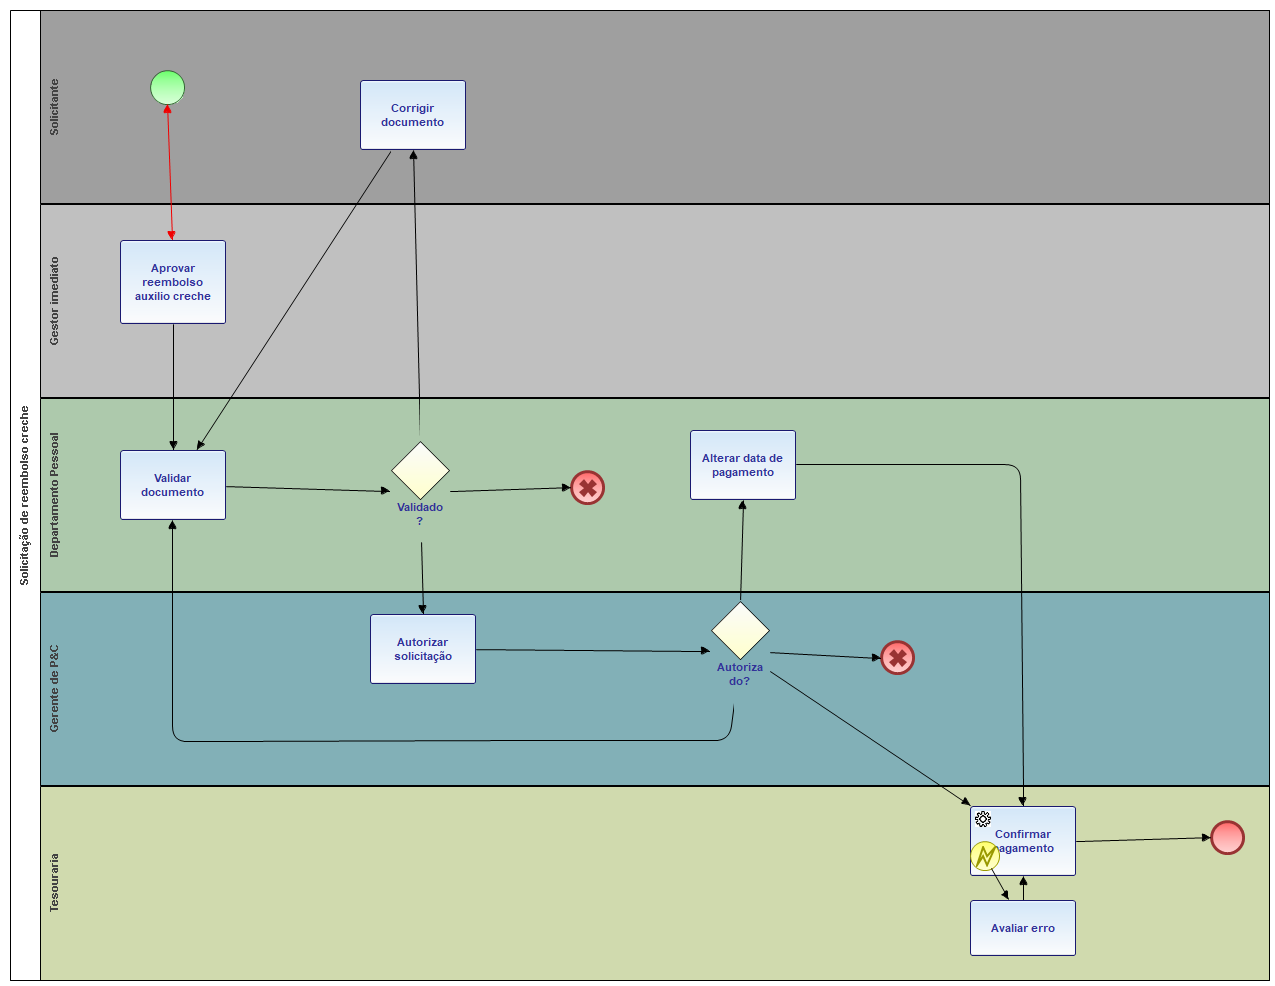
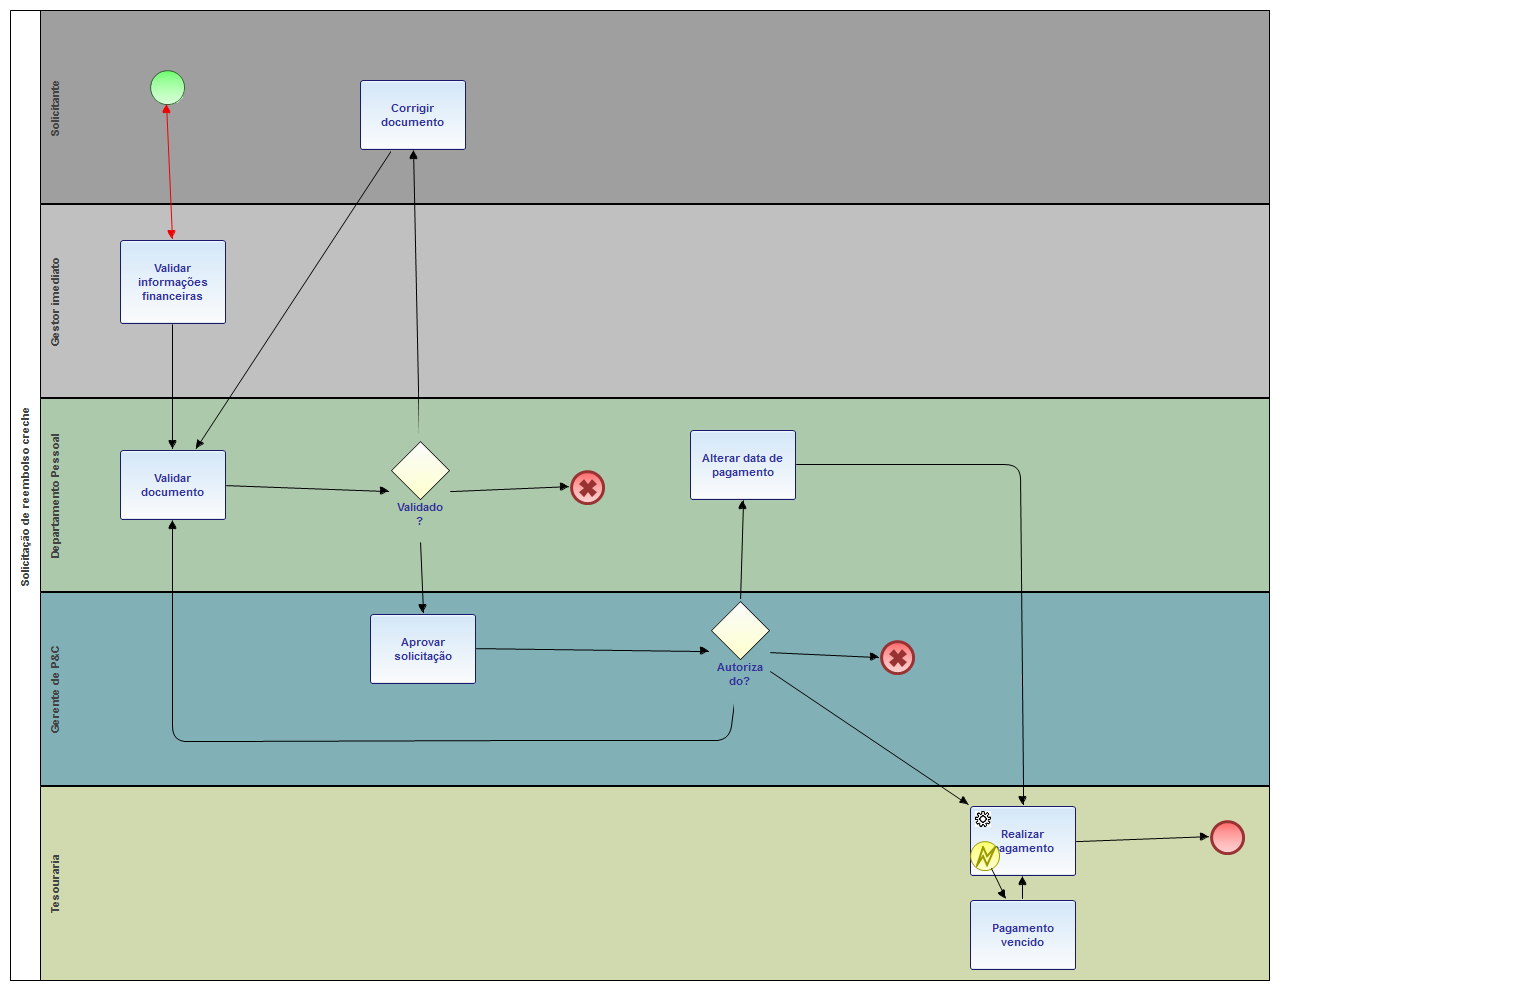
Ajustes no processo de reembolso creche para buscar data do pagamento

diff --git a/Fluig VMB Teste/datasets/Validados/VM_Pagamentos.js b/Fluig VMB Teste/datasets/Validados/VM_Pagamentos.js
@@ -5,7 +5,7 @@ function createDataset(fields, constraints, sortFields) {
 	    dataset.addColumn("DATA_PAGAMENTO");
 	    
 	    var dados;
-	    //var solicitacao ='1683';
+	   // var solicitacao ='1678';
 	   
 	    //constraints[0].fieldName == "documentid"
 	    
@@ -15,11 +15,14 @@ function createDataset(fields, constraints, sortFields) {
 	    		var c1 = DatasetFactory.createConstraint("metadata#active", true, true, ConstraintType.MUST);        		
 	    		var solicitacao = DatasetFactory.getDataset("VM_SolicitacoesReembolsoAuxilioCreche1", null, new Array(c0,c1), null);
 	    		
+	    		log.info("VM PAGAMENTOS");
+	    		log.dir(solicitacao);
+	    		
 	    		var retornaProcessoSolicitacao = retornaSolicitacao(solicitacao.getValue(0,"metadata#card_index_id"),solicitacao.getValue(0,"documentid"),solicitacao.getValue(0,"companyid"));
         		var codSolicitacao = retornaProcessoSolicitacao.getValue(0,"workflowProcessPK.processInstanceId");
         	
 	        		        	
-	        	var webservice = '/PAGAMENTOS?CODIGO='+codSolicitacao;	        	
+	        	var webservice = '/PAGAMENTOS/'+codSolicitacao;	        	
 	        	
 	        	 try {
 	            	 var clientService = fluigAPI.getAuthorizeClientService();
@@ -32,32 +35,24 @@ function createDataset(fields, constraints, sortFields) {
 	         	            timeoutService: '100' // segundos	            	  
 	         	        }
 	            
-	            var vo = clientService.invoke(JSON.stringify(data));
-	            
-	         	        if(vo.getResult()== null || vo.getResult().isEmpty()){
-	         	        	//realiza tentativa de conexão com link secundario
-	         	            var data = {
-	         	    	            companyId : getValue("WKCompany") + '',
-	         	    	            serviceCode : 'REST FLUIG 2',
-	         	    	            endpoint :  webservice,
-	         	    	            method : 'get',// 'delete', 'patch', 'put', 'get'     
-	         	    	            timeoutService: '100' // segundos	            	  
-	         	    	        }   	
-	         	            vo = clientService.invoke(JSON.stringify(data));
-	         	            
-	         	        }
-	         	        else if (vo.getResult()== null || vo.getResult().isEmpty()){
-	         	        
-	         	        	throw new Exception("Retorno está vazio");
-	         	        }
-	            
-	            else{    
-	                dados = vo.getResult();
-	            }
-	            
-	            } catch(err) {
-	            	throw new Exception(err);
-	            }
+	         	       var vo = clientService.invoke(JSON.stringify(data));
+				        
+				        if(vo.getResult()== null || vo.getResult().isEmpty()){
+				            //throw "Retorno está vazio";
+				        	log.info("RETORNO ESTA VAZIO");
+				        	dataset.addRow(new Array("RETORNO VAZIO"));
+				        }
+			   
+				        else{
+				        	//log.info(vo.getResult());        
+				        	dados = vo.getResult();
+				        	}
+				    } 
+					catch(err) {
+				        //throw err;
+						//log.info(err);
+						dataset.addRow([err.message]);
+				    }
 	        	 
 	        	 
 	        }
@@ -88,4 +83,16 @@ function createDataset(fields, constraints, sortFields) {
 	 	}
 	 	
 	 	return null;
+	 }
+	 
+	//recebe como parametro:metadata#card_index_id, metadate#id, companyid
+	 function retornaSolicitacao(cardindexdocumentid,carddocumentid,empresa){
+	 	  var constraintsHistorico  = new Array();	    	 
+	 		 constraintsHistorico.push(DatasetFactory.createConstraint("cardIndexDocumentId", cardindexdocumentid , cardindexdocumentid, ConstraintType.MUST));
+	 		 constraintsHistorico.push(DatasetFactory.createConstraint("cardDocumentId", carddocumentid , carddocumentid, ConstraintType.MUST));	    	
+	 		 constraintsHistorico.push(DatasetFactory.createConstraint("workflowProcessPK.companyId", empresa , empresa, ConstraintType.MUST));	    	
+	 		 
+	    var historicoFormulario = DatasetFactory.getDataset("workflowProcess", null, constraintsHistorico, null);	       		 
+
+	    return historicoFormulario;
 	 }

diff --git a/Fluig VMB Teste/forms/1509 - SolicitacaodeReembolsoAuxilioCreche/SolicitacaoReembolsoAuxilioCreche.html b/Fluig VMB Teste/forms/1509 - SolicitacaodeReembolsoAuxilioCreche/SolicitacaoReembolsoAuxilioCreche.html
@@ -376,7 +376,7 @@
                                           <input type="email" class="form-control" id="emailAssistente" name="emailAssistente" readonly>
                                        </div>
                                        <div class="form-group col-md-3">
-                                          <label for="dtPagamento">Data para pagamento</label>
+                                          <label for="dtPagamento">Data prevista de pagamento</label>
                                           <div class="input-group date">
                                              <input type="text" class="form-control" placeholder="Data de pagamento" id="dtPagamento" name="dtPagamento">
                                              <span class="input-group-addon">
@@ -397,14 +397,14 @@
                                        </div>
                                        <div class="form-group col-md-4">
                                           <Label for ="invalido">Documento não aceito</Label>					
-                                          <input type="radio" id ="negado" name="validacao" value ="invalido" onclick="justificativaValidacao()"/>
+                                          <input type="radio" id ="invalido" name="validacao" value ="invalido" onclick="justificativaValidacao()"/>
                                        </div>
                                     </div>
                                     <div class="row">
                                        <div class="form-group col-md-12">
                                           <div class="form-group" >
                                              <label for="justificativaReprovacaoV">Justificativa</label>
-                                             <textarea class="form-control" rows="3" id="justificativaReprovacaoV" name="justificativaReprovacaoV" placeholder="Por favor, informar o motivo pela reprovação."></textarea>
+                                             <textarea class="form-control" rows="3" id="justificativaReprovacaoV" name="justificativaReprovacaoV" placeholder="Por favor, informar o motivo pela reprovação ou devolução"></textarea>
                                           </div>
                                        </div>
                                     </div>
@@ -446,13 +446,15 @@
                                  </div>
                                  <div class="tab-pane" id="5b">
                                  	 <div class="row">
-                                 	 	<Label>Data de pagamento</Label>
-                                 	 	 <div class="input-group date">
-                                             <input type="text" class="form-control" id="dtBaixa" name="dtBaixa"  readonly>
-                                             <span class="input-group-addon">
-                                             <span class="fluigicon fluigicon-calendar"></span>
-                                             </span>
+                                 	 	<div class="form-group col-md-3">
+											<Label>Data efetiva de pagamento</Label>                                 	 	
+                                 	 		<div class="input-group date">
+                                            	 <input type="text" class="form-control" id="dtBaixa" name="dtBaixa"  readonly>
+                                             	<span class="input-group-addon">
+                                             	<span class="fluigicon fluigicon-calendar"></span>
+                                             	</span>
                                           </div>
+                                 	 	</div>                                 	 	                                 	 	 
                                  	 </div>
                                  </div>
                               </div>

diff --git a/Fluig VMB Teste/datasets/Validados/VM_FINA050_SOLICITACAO_REEMBOLSO_AUXILIO_CRECHE.js b/Fluig VMB Teste/datasets/Validados/VM_FINA050_SOLICITACAO_REEMBOLSO_AUXILIO_CRECHE.js
@@ -21,9 +21,11 @@ function createDataset(fields, constraints, sortFields) {
 	    		var c2 = DatasetFactory.createConstraint("SOLICITACAO", codSolicitacao, codSolicitacao, ConstraintType.MUST);    
 	    	    var itensSolicitacao = DatasetFactory.getDataset("VM_SolicitacoesReembolsoAuxilioCrecheDadosPagamento", null, new Array(c2), null);    				  
 
+	    	    log.info("log itens solicitacao");
+	    	    log.dir(itensSolicitacao);
 
 				 try {
-					//chama função que monta array de objetos dos itens do rateio
+					//chama função que monta array de objetos dos itens do rateio					 
 					 aRateio = preencheRateio(itensSolicitacao);
 				 }
 				 catch (erro){
@@ -110,6 +112,10 @@ function createDataset(fields, constraints, sortFields) {
 					 
 					 
 	    	}
+		 else {
+			 //log.info("NÃO ESTA RETORNANDO DATASET");
+			 dataset.addRow(["DATASET VAZIO"]);
+		 }
 	 
 	 }
 	
@@ -162,8 +168,8 @@ function preencheRateio(solicitacao){
 			
 			rateio[i] = obj;	
 			
-			//log.info("--retorno rateio--");
-			//log.dir(rateio[i]);
+			log.info("--retorno rateio--");
+			log.dir(rateio[i]);
 	   }
 	 			   
 	   return rateio;

diff --git a/Fluig VMB Teste/forms/1509 - SolicitacaodeReembolsoAuxilioCreche/SolicitacaoReembolsoAuxilioCreche.js b/Fluig VMB Teste/forms/1509 - SolicitacaodeReembolsoAuxilioCreche/SolicitacaoReembolsoAuxilioCreche.js
@@ -39,6 +39,7 @@ $(document).ready(function() {
 	
 });
 
+/*
 
 function retornaImagemFuncionario(){
 	// metodo GET  /profile/image/{genericId}/{type}
@@ -71,6 +72,8 @@ function retornaImagemFuncionario(){
 	        }
 	    });
 }
+
+*/
 
 function adicionaItem(itens) {
     for (var i in itens) {
@@ -530,9 +533,19 @@ function justificativaValidacao(){
 	if (document.getElementById("validacao").checked == true){
 		document.getElementById("justificativaReprovacaoV").style.display = "none";
 	}
-	else {
-		document.getElementById("justificativaReprovacaoV").style.display = "block";	
+	
+	else if (document.getElementById("negado").checked == true){
+		document.getElementById("justificativaReprovacaoV").style.display = "block";
 	}
+	
+	else if (document.getElementById("invalido").checked == true){
+		document.getElementById("justificativaReprovacaoV").style.display = "none";
+		
+		
+		
+	}
+	
+	
 	
 }
 

diff --git a/Fluig VMB Teste/workflow/scripts/Solicitacao de Reembolso Auxilio Creche.servicetask88.js b/Fluig VMB Teste/workflow/scripts/Solicitacao de Reembolso Auxilio Creche.servicetask88.js
@@ -17,13 +17,17 @@ function servicetask88(attempt, message) {
     
      var resultDataset = DatasetFactory.getDataset("ds_get_Pagamentos", null, constraint, null);
        
-     log.info("SCRIPT DE INTEGRAÇÃO");
+     log.info("SCRIPT DE INTEGRAÇÃO 14:02");
      log.dir(resultDataset);
      
-        if (resultDataset.getValue(0,"RETORNO") != "SUCESSO"){
-           throw resultDataset.getValue(0,"RETORNO");
-        }
-        else {
-           return "Integrado com sucesso!";
-        }
+     
+     	if (resultDataset !== null && resultDataset.rowsCount >0 && resultDataset.getValue(0,"DATA_PAGAMENTO") != ''){
+     		//preenche data de pagamento
+        	hAPI.setCardValue("dtBaixa",resultDataset.getValue(0,"DATA_PAGAMENTO"));  
+     		
+     	}
+     	else {
+     		 throw 'Pagamento ainda não efetuado!';
+     	}
+
 }

diff --git a/Fluig VMB Teste/datasets/Validados/VM_SolicitacoesReembolsoAuxilioCrecheDadosPagamento.js b/Fluig VMB Teste/datasets/Validados/VM_SolicitacoesReembolsoAuxilioCrecheDadosPagamento.js
@@ -21,7 +21,7 @@ function createDataset(fields, constraints, sortFields) {
     constraintsActive.push(DatasetFactory.createConstraint("metadata#active", true, true, ConstraintType.MUST));
     var datasetPrincipal = DatasetFactory.getDataset("VM_SolicitacoesReembolsoAuxilioCreche1", null, constraintsActive, null);
     
-    if(constraints!==null && constraints.length){ //se tiver constraint filtra
+    if((constraints!==null && constraints.length) && constraints[0].fieldName != 'sqlLimit'){ //se tiver constraint filtra
         if(constraints[0].constraintType==ConstraintType.MUST) { // implementação somente para o MUST
             for(var a=0;a < datasetPrincipal.rowsCount;a++){
             	var documentId = datasetPrincipal.getValue(a, "metadata#id");

diff --git a/Fluig VMB Teste/datasets/Validados/VM_SolicitacoesCompraDadosPagamento.js b/Fluig VMB Teste/datasets/Validados/VM_SolicitacoesCompraDadosPagamento.js
@@ -24,7 +24,7 @@ function createDataset(fields, constraints, sortFields) {
     constraintsActive.push(DatasetFactory.createConstraint("metadata#active", true, true, ConstraintType.MUST));
     var datasetPrincipal = DatasetFactory.getDataset("VM_SolicitacoesCompras", null, constraintsActive, null);
     
-    if(constraints!==null && constraints.length){ //se tiver constraint filtra
+    if((constraints!==null && constraints.length) && constraints[0].fieldName != 'sqlLimit' ){ //se tiver constraint filtra
         if(constraints[0].constraintType==ConstraintType.MUST) { // implementação somente para o MUST
             for(var a=0;a < datasetPrincipal.rowsCount;a++){
             	var documentId = datasetPrincipal.getValue(a, "metadata#id");

diff --git a/Fluig VMB Teste/datasets/Validados/ds_get_Pagamentos.js b/Fluig VMB Teste/datasets/Validados/ds_get_Pagamentos.js
@@ -1,18 +1,19 @@
 function createDataset(fields, constraints, sortFields) {
 	var getSolicitacao =  getConstraints(constraints, 'documentid');
-	//var getSolicitacao = "1539";
+	//var getSolicitacao = "1678";
 	
 	log.info("----RETORNO VM_PAGAMENTOS---");
 	log.dir(getSolicitacao);
 
-	
-    var c1 = DatasetFactory.createConstraint("documentid", getSolicitacao, getSolicitacao, ConstraintType.MUST);    
+	     
+    var c1 = DatasetFactory.createConstraint("documentid", getSolicitacao, getSolicitacao, ConstraintType.MUST); 
     var dataset = DatasetFactory.getDataset("VM_Pagamentos", null, new Array(c1), null);
     
     return dataset;
 	
 	
 }
+
 function getConstraints(constraints, field){
 	if(constraints == null)
 		return null;

diff --git a/Fluig VMB Teste/workflow/scripts/Solicitacao de Reembolso Auxilio Creche.beforeStateEntry.js b/Fluig VMB Teste/workflow/scripts/Solicitacao de Reembolso Auxilio Creche.beforeStateEntry.js
@@ -40,10 +40,15 @@ function beforeStateEntry(sequenceId){
 				
 			
 			var resultDateset = DatasetFactory.getDataset("VM_FINA050_SOLICITACAO_REEMBOLSO_AUXILIO_CRECHE", null, constraint, null);
-			     
-		    if (resultDateset.getValue(0,"RETORNO") != "SUCESSO"){
-		    	throw resultDateset.getValue(0,"RETORNO");
-		    } 
+			
+			log.info("DATASET VM_FINA050_SOLICITACAO_REEMBOLSO_AUXILIO_CRECHE");
+			log.dir(resultDateset);
+			
+			  if (resultDateset.getValue(0,"RETORNO") != "SUCESSO"){
+			    	throw resultDateset.getValue(0,"RETORNO");
+			    } 
+			
+		  
 	
 	}
 	

diff --git a/Fluig VMB Teste/datasets/Validados/VM_Categoria.js b/Fluig VMB Teste/datasets/Validados/VM_Categoria.js
@@ -49,10 +49,10 @@ function createDataset(fields, constraints, sortFields) {
 	        	throw new Exception("Retorno está vazio");
 	        }
    
-   else{
-//       log.info(vo.getResult());        
-       dados = vo.getResult();
-   }
+	        else{
+	        	//log.info(vo.getResult());        
+	        	dados = vo.getResult();
+	        	}
    
    } catch(err) {
    	throw new Exception(err);
